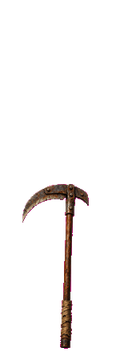
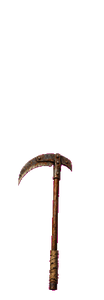
Gravemark: weapons held low and drawn along the bone; screen shake off by default
Claude-Session: https://claude.ai/code/session_01L4YgmXtn1U1rMqPTfw2Rbr

diff --git a/gravemark/src/07-data-rig.js b/gravemark/src/07-data-rig.js
@@ -49,7 +49,10 @@ RIGS.humanoid = {
     { id: "shin_f",   parent: "thigh_f", x: 50,  y: 0,  len: 48, a: 92,  part: "shin_f",   z: 41, w: 17 },
     { id: "uarm_f",   parent: "torso",   x: 50,  y: -6, len: 32, a: 76,  part: "uarm_f",   z: 50, w: 16 },
     { id: "farm_f",   parent: "uarm_f",  x: 32,  y: 0,  len: 30, a: 60,  part: "farm_f",   z: 51, w: 14 },
-    { id: "weapon",   parent: "farm_f",  x: 30,  y: 0,  len: 70, a: -30, part: "weapon",   z: 52, w: 8 }
+    /* Held low and forward at rest, tip toward the ground, like the standing
+       paintings; the swings raise it from there. The painting is drawn along
+       the bone (see drawPartImage), so this angle IS the weapon's angle. */
+    { id: "weapon",   parent: "farm_f",  x: 30,  y: 0,  len: 70, a: 35, part: "weapon",   z: 52, w: 8 }
   ]
 };
 
@@ -116,7 +119,7 @@ GM.Rig.PARTS = {
     shin_f:  { w: 44,  h: 72,  px: 0.50, py: 0.06, joint: "the knee",               desc: "the NEAR shin, knee to sole, boot included" },
     thigh_b: { w: 48,  h: 72,  px: 0.50, py: 0.06, joint: "the hip",                desc: "the FAR thigh, hip to knee (a little darker)" },
     shin_b:  { w: 44,  h: 72,  px: 0.50, py: 0.06, joint: "the knee",               desc: "the FAR shin, knee to sole, boot included" },
-    weapon:  { w: 64,  h: 180, px: 0.50, py: 0.82, joint: "the grip",               desc: "the weapon alone, no hand, painted vertically with the grip near the bottom and the business end at the top" }
+    weapon:  { w: 52,  h: 150, px: 0.50, py: 0.82, joint: "the grip",               desc: "the weapon alone, no hand, painted vertically with the grip near the bottom and the business end at the top" }
   },
   quadruped: {
     body:   { w: 128, h: 64,  px: 0.05, py: 0.50, joint: "the rear of the body", desc: "the torso from haunches to shoulders, no legs, no neck, no tail" },

diff --git a/gravemark/src/32-ui-battle.js b/gravemark/src/32-ui-battle.js
@@ -307,7 +307,10 @@ function drawCapsule(ctx, x1, y1, x2, y2, width, hue, dark) {
 function drawPartImage(ctx, b, partKey, scale, flash) {
   var spec = GM.ART_BY_KEY[partKey], img = GM.art(partKey);
   var px = (b.x - 128) * scale, py = (b.y - 246) * scale;
-  var rad = (b.angle - b.bone.a) * Math.PI / 180;
+  /* Body parts are painted upright as they sit on the reference, so they turn
+     by the bone's delta from rest. The weapon is painted point-UP and must
+     point along its bone, so it turns by the bone's whole angle from up. */
+  var rad = (b.bone.id === "weapon" ? b.angle + 90 : b.angle - b.bone.a) * Math.PI / 180;
   var w = spec.w / 2 * scale, h = spec.h / 2 * scale;
   ctx.save();
   ctx.translate(px, py);
@@ -461,7 +464,7 @@ GM.ui.drawBattles = function (now) {
               : sq.mode === "vigil" ? "bg/graveyard"
               : "bg/realm-" + Math.min(GM.realmOf(stage), GM.REALMS.length);
 
-    var shake = p.vfx.shakeOffset(now);
+    var shake = GM.state.opts.shake ? p.vfx.shakeOffset(now) : { x: 0, y: 0 };
     ctx.save();
     ctx.translate(shake.x, shake.y);
 

diff --git a/gravemark/src/34-ui-overlay.js b/gravemark/src/34-ui-overlay.js
@@ -539,7 +539,8 @@ function viewSquadStats(body) {
 function viewSettings(body) {
   var p = panel(body, "Settings");
   var o = GM.state.opts;
-  [["showLog", "Keep the chronicle"]
+  [["showLog", "Keep the chronicle"],
+   ["shake", "Screen shake on hits"]
   ].forEach(function (pair) {
     var l = GM.el("label", "opt");
     l.innerHTML = '<input type="checkbox"' + (o[pair[0]] ? " checked" : "") + "> " + GM.esc(pair[1]);

diff --git a/gravemark/src/10-state.js b/gravemark/src/10-state.js
@@ -61,7 +61,8 @@ GM.blankSave = function (seasonId) {
     epitaphs: [],     /* recovered, inscribable rolls */
 
     opts: {
-      showLog: true
+      showLog: true,
+      shake: false        /* panel shake on hits; off by default */
     },
 
     tally: {

diff --git a/gravemark/src/00-util.js b/gravemark/src/00-util.js
@@ -5,7 +5,7 @@
 
 var GM = window.GM || (window.GM = {});
 
-GM.BUILD = "b013-big";
+GM.BUILD = "b014-grip";
 GM.TITLE = "Gravemark";
 
 /* ---------- RNG ---------------------------------------------------------

diff --git a/gravemark/README.md b/gravemark/README.md
@@ -294,7 +294,14 @@ brief and the game cannot disagree. The canvases run deliberately LARGER than
 the bones they hang on: a part is fitted to its canvas on install, so a bigger
 canvas is a chunkier limb that overlaps its neighbour at the joint. Change a
 canvas size and re-slice the sheets (`tools/slice-parts.py`) so the installed
-parts match.
+parts match. Body parts are painted upright as they sit on the reference and
+turn by their bone's delta from rest; the WEAPON is painted point-up and is
+drawn along its bone, so its rest angle in the bone table (35°, low and
+forward, tip toward the ground) is the angle the blade actually sits at. With
+the rest angle pointing up, a big weapon stood across the chest and face in
+every pose.
+
+Panel shake on hits is off by default (`opts.shake`, a Settings toggle).
 
 ```bash
 node tools/grok-parts.js > GROK-PARTS.md     # the parts brief, tiered
